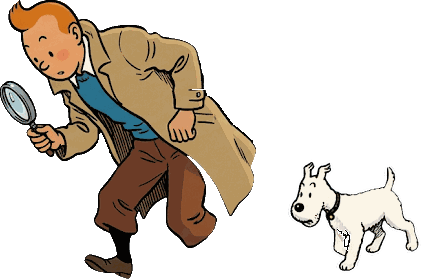
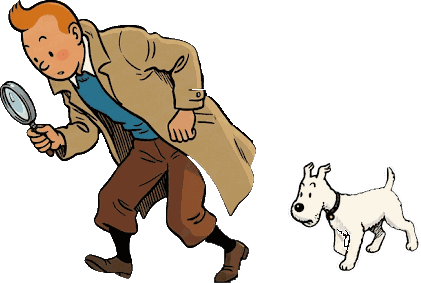
Restore Tintin's rear leg in the header cutout
The segmentation dropped his back sock and boot: both are dark, and they sat
against dark cobbles, so the trouser cuff just ended in a stump mid-stride.

Recovered by colour instead, in a box around the leg - the boot is warm
leather and the sock neutral black, while the cobbles behind them are
distinctly blue. Thin cobble lines are removed with a morphological opening
and a minimum component size, and one ink mark beside the heel is cleared
by the same warm/cool test.

The cutout grows 4px taller, so the header <image> box goes to 149x100 to
keep the aspect ratio honest.

Claude-Session: https://claude.ai/code/session_015FTGiW1wDk3DJdpNaY1Vu1

diff --git a/templates/base.html b/templates/base.html
@@ -59,7 +59,7 @@
         <use href="#paw" x="36" y="66" width="7" height="7" opacity="0.18"/>
         <use href="#paw" x="12" y="69" width="6" height="6" opacity="0.13"/>
       </g>
-      <image href="{{ root }}investigators.png" x="483" y="0.5" width="151" height="100"/>
+      <image href="{{ root }}investigators.png" x="485" y="0.5" width="149" height="100"/>
     </svg>
   </div>
 </header>
